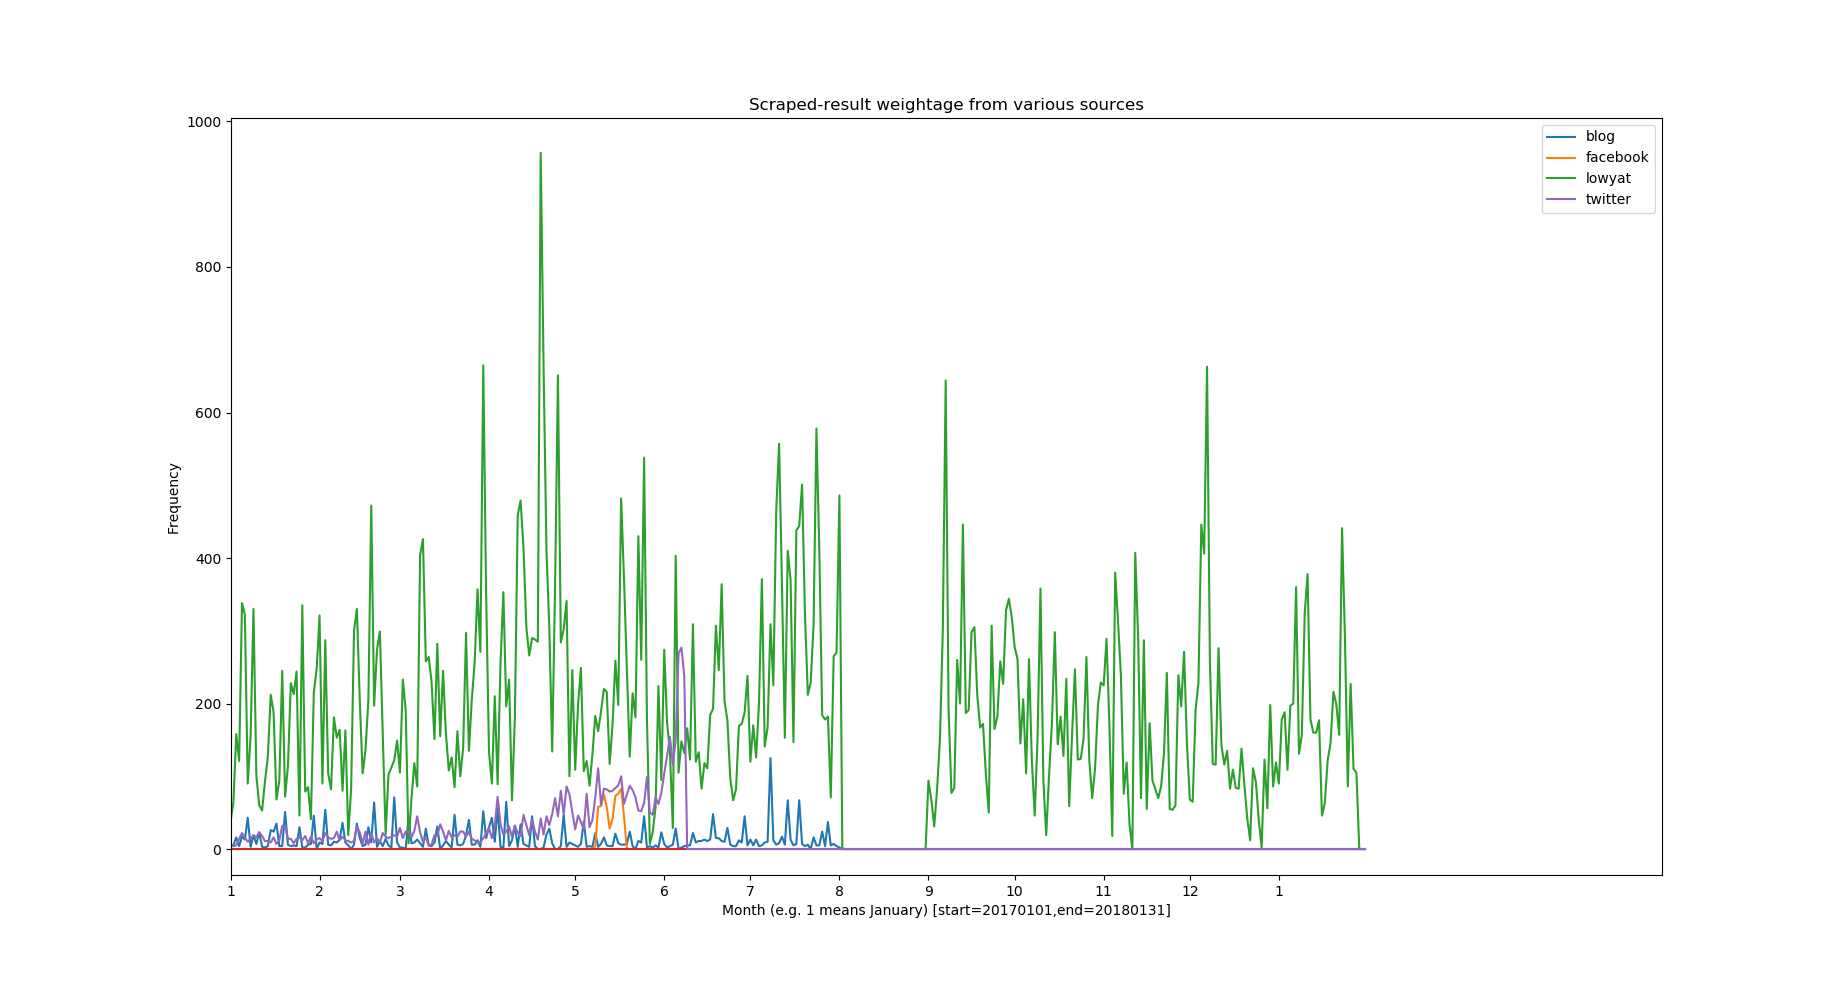
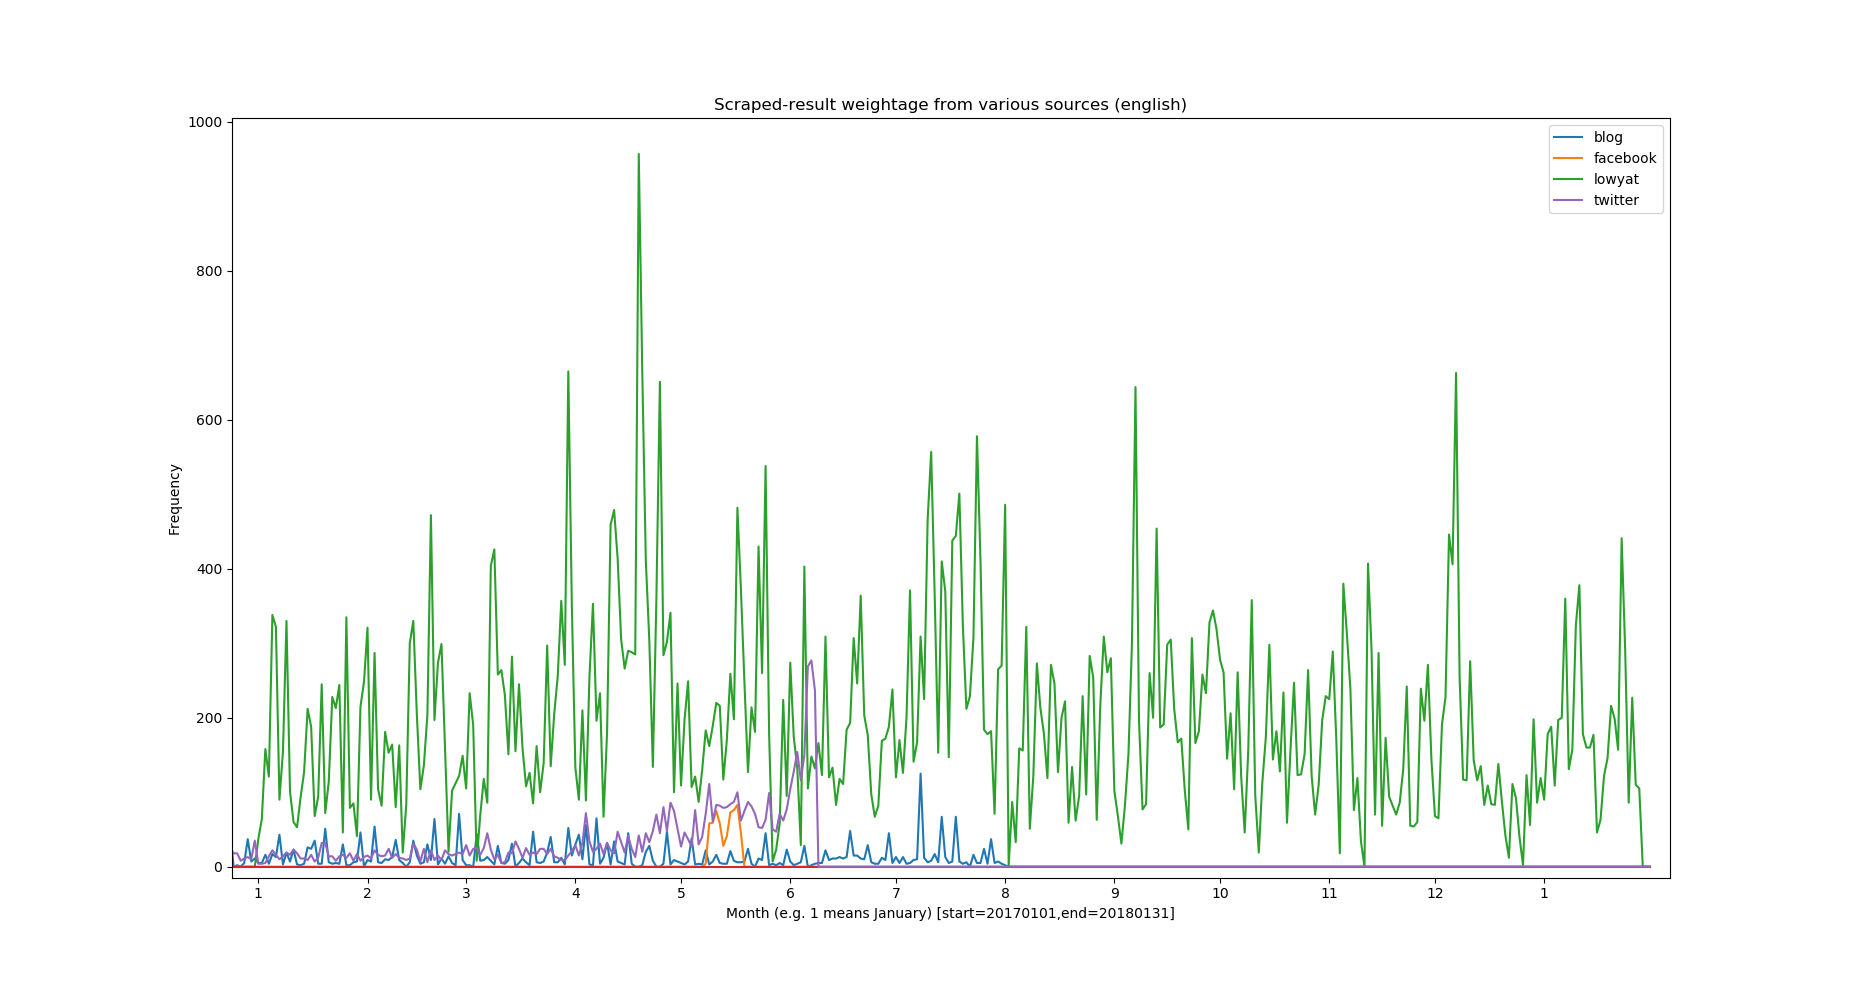
Updated graph for english_source

diff --git a/analysis/_5_analyze_source/plot_graph.py b/analysis/_5_analyze_source/plot_graph.py
@@ -17,7 +17,7 @@ def plot_graph(language):
             plt.plot(y, label=name)
         xs, ticks = build_xticks(START_DATE, END_DATE)
         plt.xticks(xs, ticks)
-        plt.title("Scraped-result weightage from various sources")
+        plt.title(f"Scraped-result weightage from various sources ({language})")
         plt.xlabel(
             f"Month (e.g. 1 means January) [start={'20170101'},end={END_DATE}]")
         plt.ylabel("Frequency")

diff --git a/analysis/_5_analyze_source/main.py b/analysis/_5_analyze_source/main.py
@@ -37,7 +37,7 @@ def main(language):
 def filter_date(date_list):
     return sorted([x for x in date_list if len(x) == len('YYYYMMDD')])
 
-# main('english')
-# main('chinese')
+main('english')
+main('chinese')
 plot_graph('english')
 plot_graph('chinese')
